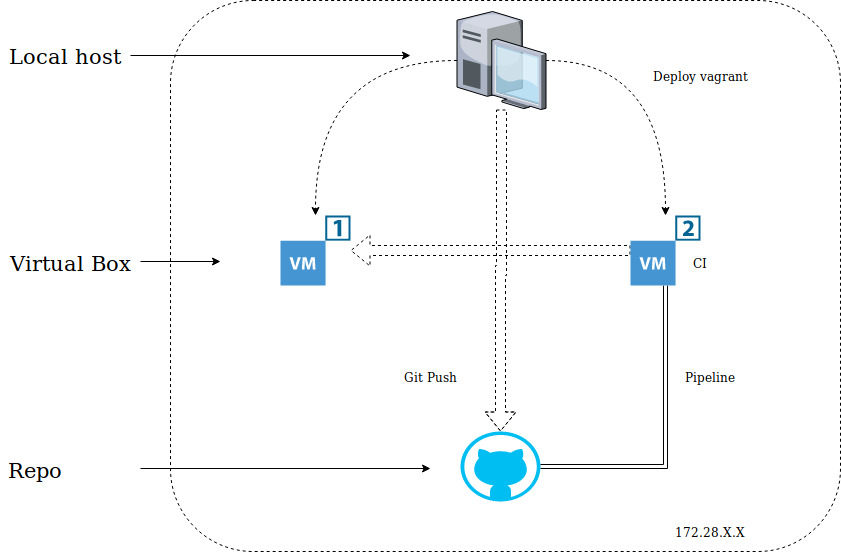
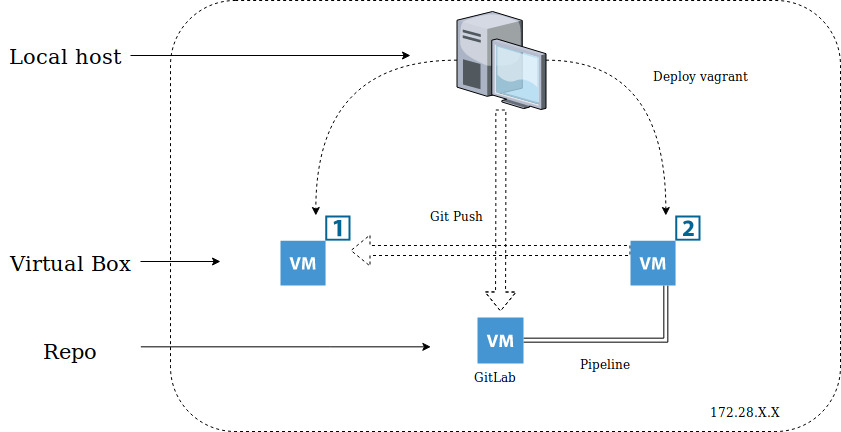
feat(docker-compose): add false parameters to drone feat(readme): fix instruction for real using gitlab repository feat(file): replace diagram file fix(vagrantfile): replace name defined for dockerimage feat(drone): add step in drone to execute ansible code in server

diff --git a/README.md b/README.md
@@ -1,6 +1,14 @@
 # DevOps Project
 
-This project allows you create your own CI tools and [Docker Swarm](https://docs.docker.com/engine/swarm/) orquestator using [Vagrant](https://www.vagrantup.com/) Images provisioned with [Ansible](https://www.ansible.com/) in a network with DHCP (No Static IP)
+This project allows you create your own CI tools and [Docker Swarm](https://docs.docker.com/engine/swarm/) orquestator with just one Manager node in each cluster using [Vagrant](https://www.vagrantup.com/) Images provisioned with [Ansible](https://www.ansible.com/)
+
+At the end you will have:
+
+N° | VM | Docker | Cluster | IP
+---------|---------|----------|---------|---------
+vm-1 | docker-image | yes | yes | 172.28.128.100
+vm-2 | drone-ci | yes | yes | 172.28.128.99
+vm |  gitlab | yes | no | 172.28.128.98
 
 ![Diagram](https://raw.githubusercontent.com/mherrera05/devops-test/master/docs/diagram-vagrant.jpg)
 ***
@@ -21,52 +29,64 @@ Clone this repository using git
 $ git clone https://github.com/mherrera05/devops-test.git
 ```
 ### Step 2
-Go to project folder and deploy Vagrant Virtual Machine
+Go to project folder and deploy Vagrant Virtual Machine in sequency
 
 ```bash
 $ cd <project-folder>/
-$ vagrant up
+$ vagrant up gitlab
 ```
+
+This machine will start with IP address 172.28.128.98
+
+Request the service using http://172.28.128.98
+
 ### Step 3
-Once Vagrantfile has been deployed you can verified their status with:
+Create a project in gitlab repository and setup application access for drone, go `Settings > Application > New Application`
 
-```bash
-$ vagrant global-status
-
-1fb55dd  portainer virtualbox running <folder>
-2ac2b74  drone     virtualbox running <folder>
-```
+In Authorization URL, add: `http://172.28.128.99/authorize`
 
 ### Step 4
-Open new terminal and connect with these machines via ssh
+Before start the CI virtual machine change `DRONE_GITLAB_CLIENT, DRONE_GITLAB_SECRET` for given by gitlab:
 
-```bash
-$ vagrant ssh portainer
+```yml
+- DRONE_GITLAB=true
+- DRONE_GITLAB_CLIENT=clientid
+- DRONE_GITLAB_SECRET=secret
+- DRONE_GITLAB_URL=http://172.28.128.98
+- DRONE_GITLAB_SKIP_VERIFY=true
 ```
 
-Once inside get IP address given by virtualbox, you can use this:
+And start the virtual machine with
 
 ```bash
-$ ifconfig | grep 172.28
-
-inet addr:172.28.x.x  Bcast:172.28.x.x  Mask:255.255.255.0
+$ vagrant up drone
 ```
 
-The IP address of your virtual machine in network shared with your local machine will be `inet addr:172.28.x.x`
+This machine will start with IP address 172.28.128.99
 
-You can do the same connecting to drone
-```bash
-$ vagrant ssh drone
-```
+Request the service using http://172.28.128.99
 
 ### Step 5
-Request the service of each virtual machine, as the first machine deployed an Portainer stack in the cluster, the port used is `30000`, you can request your service via `http`
+To start the last virtual machine with docker image, just run:
 
-Open you web browser and go to `http://172.28.x.x:30000 <---- IP address getted from portainer virtual machine`
+```bash
+$ vagrant up dockerimage
+```
 
-In the case of drone, the port used is `80`, open a new tab and go to `http://172.28.x.x <---- IP address getted from drone virtual machine`
+Request service using http://172.28.128.100
 
 ### Step 6
-Through Drone will see that is connect to a specific profile in fact to this github account. You can change this credentials in `drone/docker-composer.yml`
+In the project folder
+
+```bash
+$ <project-folder>/
+$ git remote add <repo> <url>
+$ git add .
+$ git push <repo> master
+```
+To push the project to the new repository and trigger the build
+
+### Step 6
+Triggering the pipeline, it will connect via ssh with docker-image virtual machine and run ansible code.
 
 ## Enjoy!
